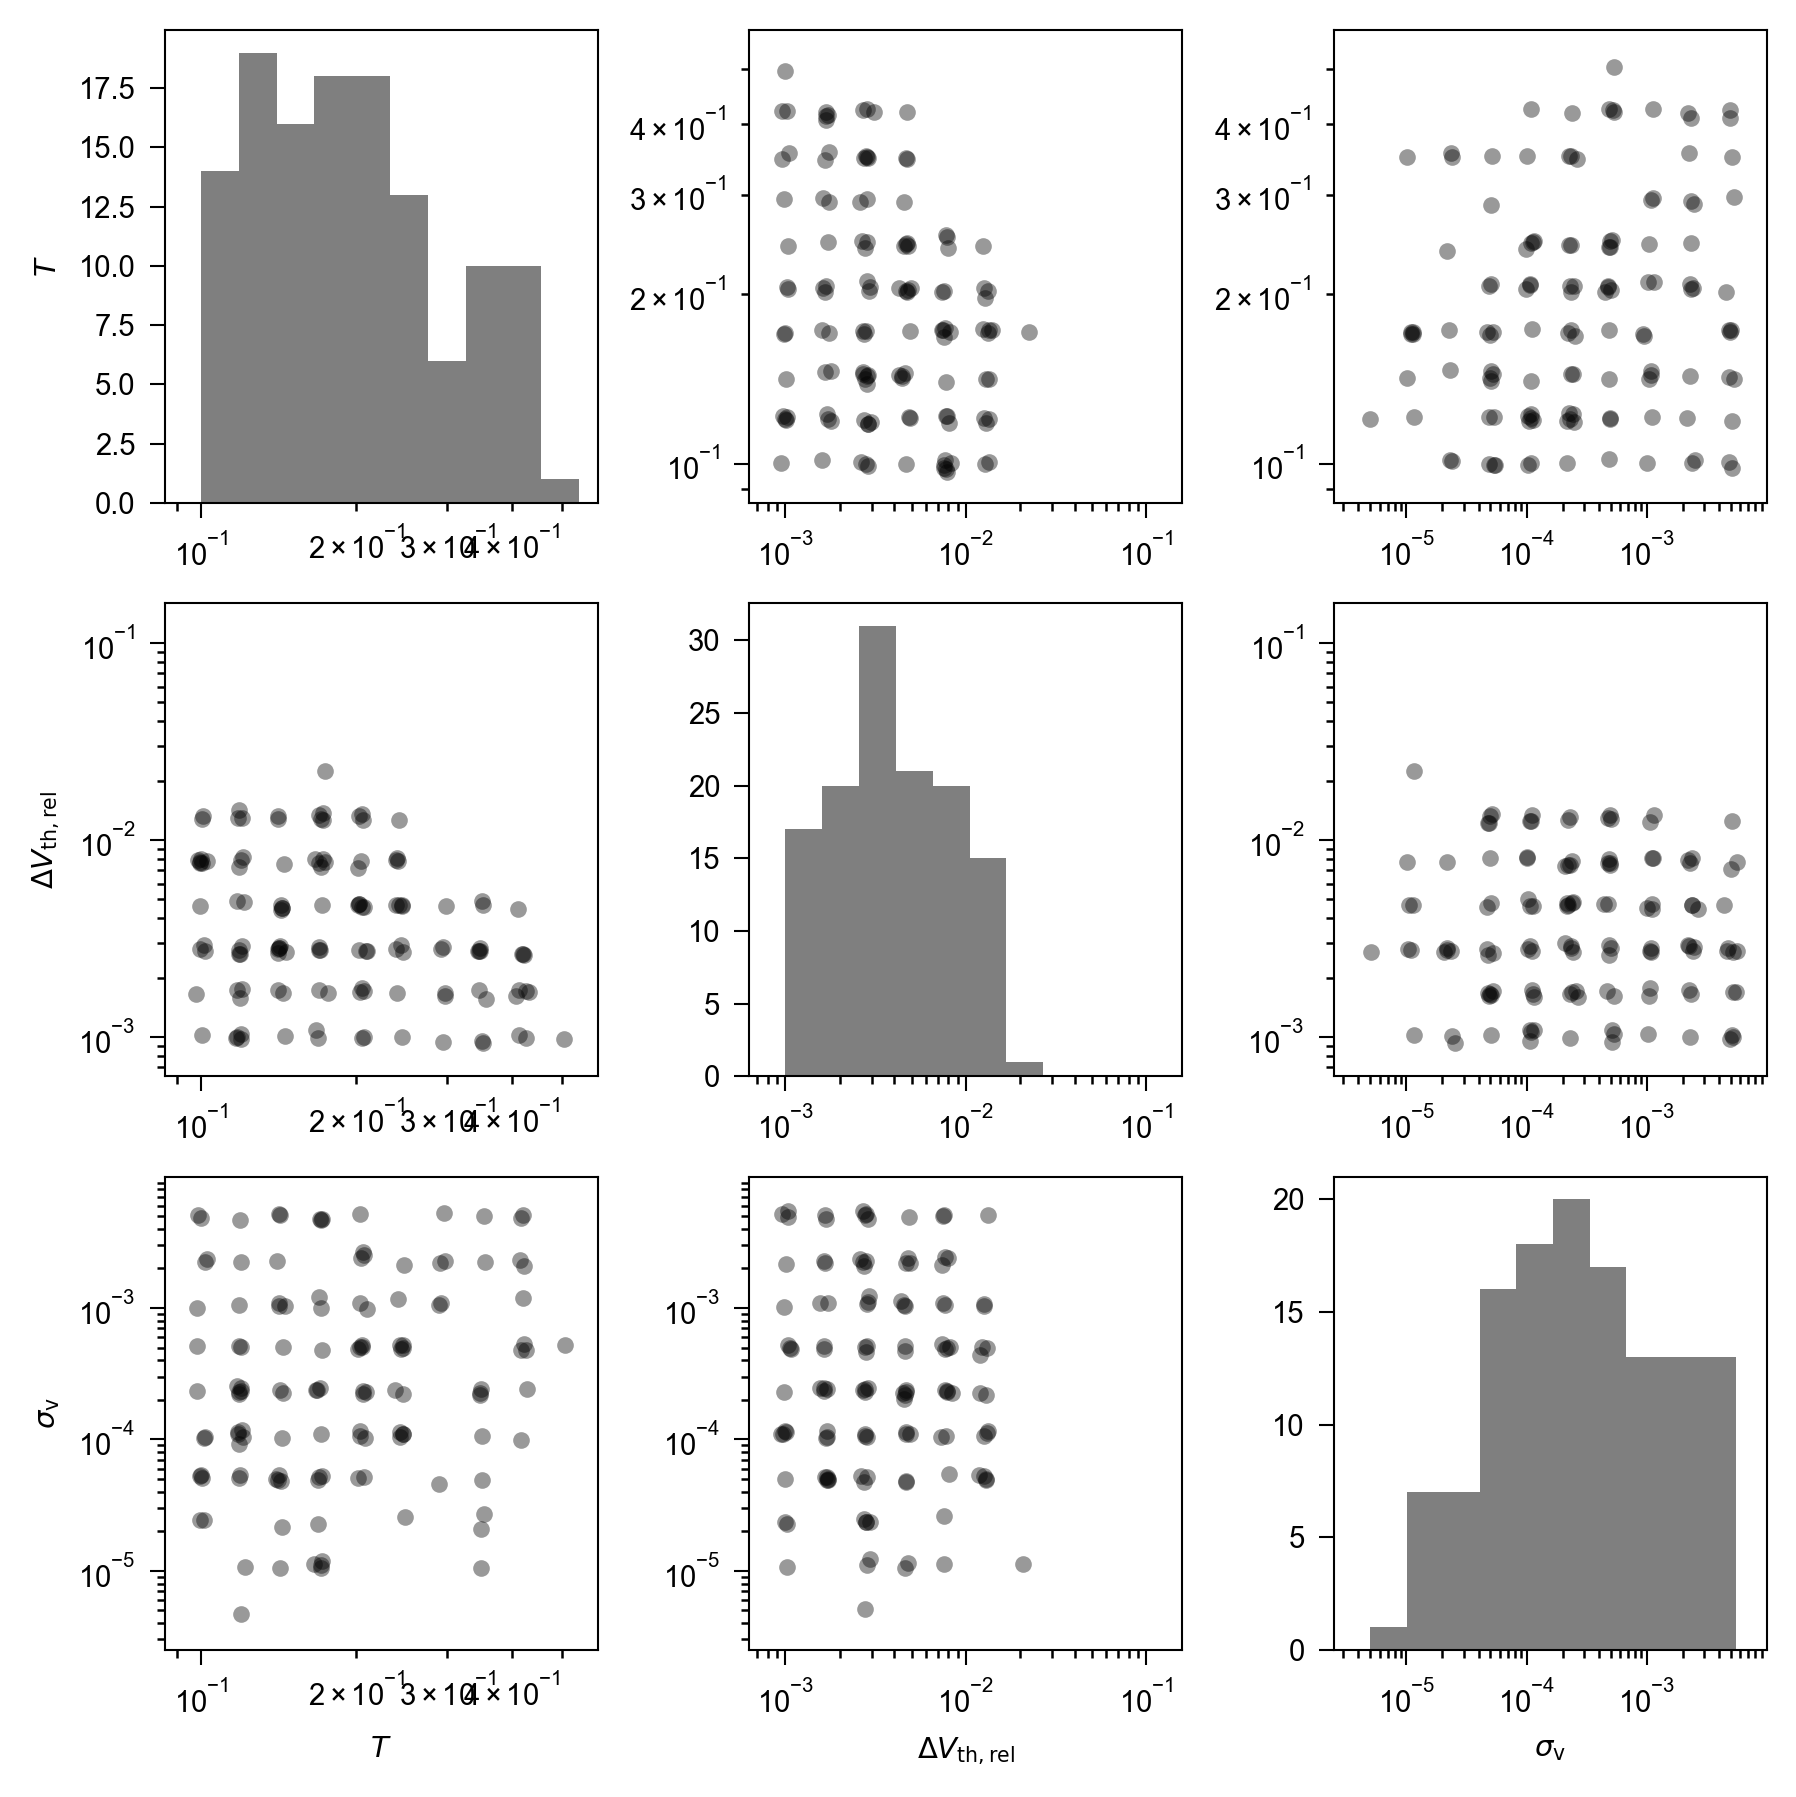
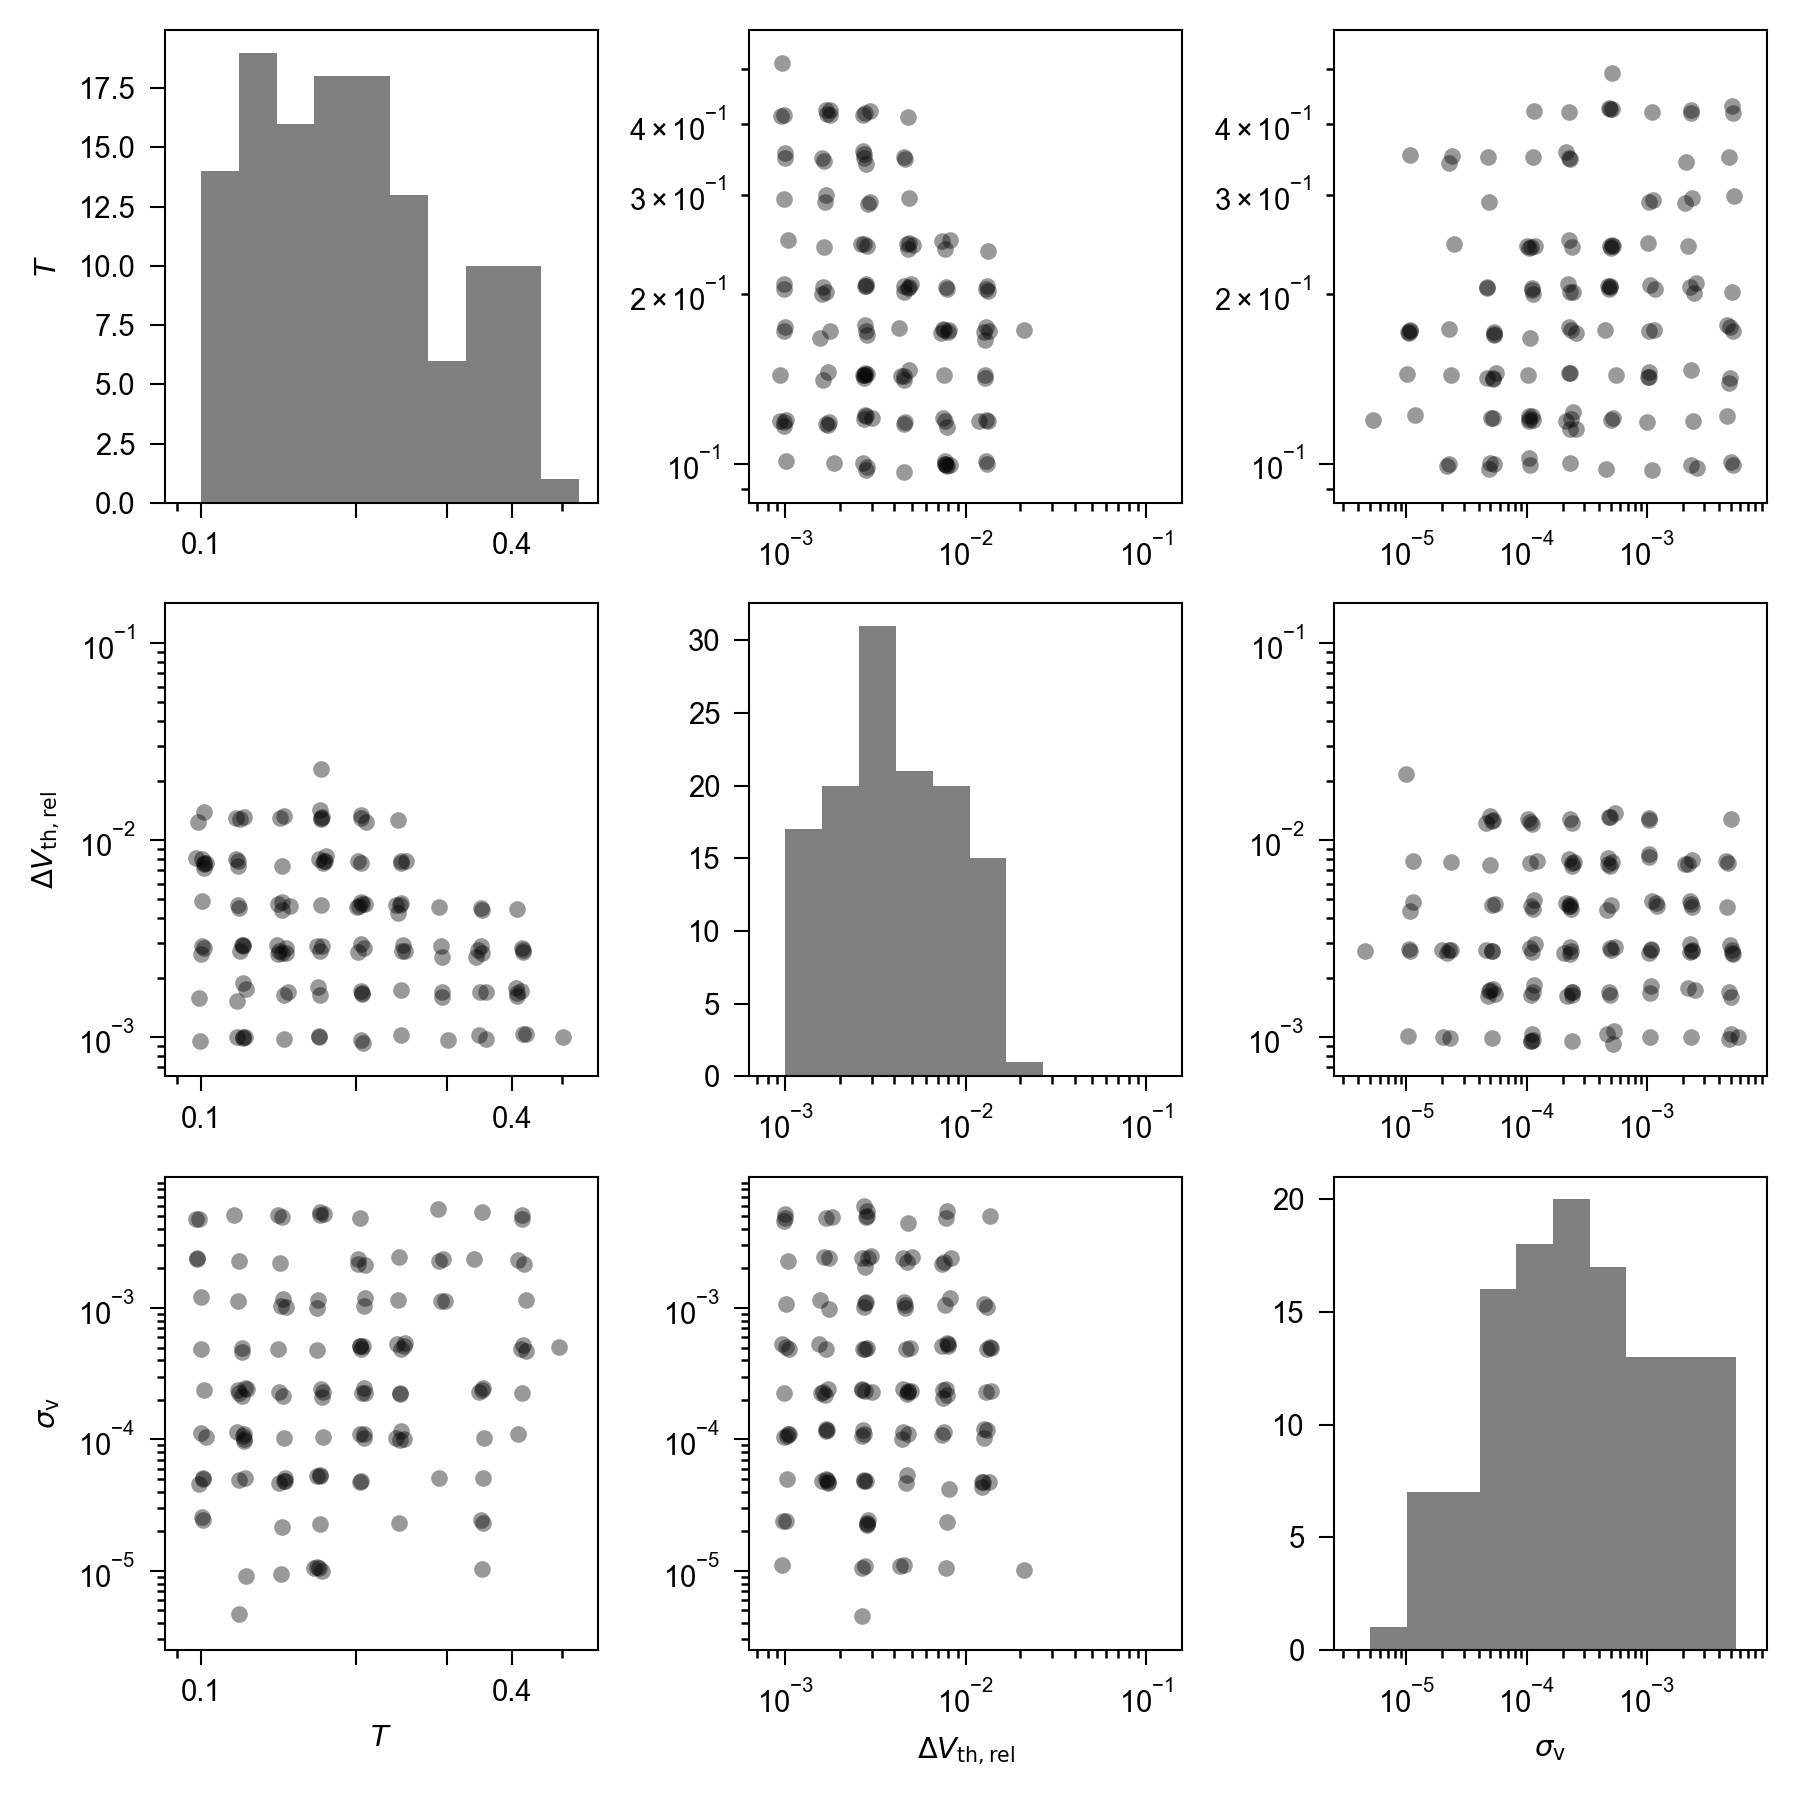
Fixing overlapping x tick labels in Figs S14-15

diff --git a/SCPaper/sc_fitting.py b/SCPaper/sc_fitting.py
@@ -1142,6 +1142,16 @@ def do_params_plot(param_names, params_array, param_ranges=None,
                     ymax = PARAM_VAL_FOR_INF
                 yplotmin, yplotmax = get_plot_lims(ymin, ymax)
                 ax.set_ylim(yplotmin, yplotmax)
+            if param_names[i_x_param] == 'T':
+                # fix for problem with overlapping x tick labels
+                xticks = np.arange(xmin, xmax, 0.1)
+                ax.set_xticks(xticks)
+                xticklabels = []
+                for i in range(len(xticks)):
+                    xticklabels.append('')
+                xticklabels[0] = f'{xticks[0]:.1f}'
+                xticklabels[-1] = f'{xticks[-1]:.1f}'
+                ax.set_xticklabels(xticklabels)
             if i_x_param == 0:
                 ax.set_ylabel(display_param_names[i_y_param])
             if i_y_param == n_params-1:

diff --git a/SCPaper/do_6_analyse_probabilistic_fits.py b/SCPaper/do_6_analyse_probabilistic_fits.py
@@ -34,7 +34,7 @@ DO_PLOTS = True # if False, all plots are disabled
 DO_TIME_SERIES_PLOTS = False
 N_CRIT_FOR_TS_PLOT = 4
 DO_PARAMS_PLOTS = False
-DO_RETAINED_PARAMS_PLOT = False # supplementary figure
+DO_RETAINED_PARAMS_PLOT = True # supplementary figure
 DO_CRIT_PLOT = True # supplementary figure
 CRIT_PLOT_MODELS = ('oVAoAN', 'oVAoEAoAN',
                      'oVAoSNc', 'oVAoEAoSNc', 'oVAoSNcoPF', 'oVAoEAoSNcoPF',
@@ -42,7 +42,7 @@ CRIT_PLOT_MODELS = ('oVAoAN', 'oVAoEAoAN',
 CRIT_PLOT_FIG_NO = 13
 DO_OUTCOME_PLOT = False
 N_CRIT_FOR_PARAMS_PLOT = 4
-SAVE_FIGS = False
+SAVE_FIGS = True
 RET_PARAMS_PLOTS_TO_SAVE = ('oVAoEAoSNv', 'oVAoEAoSNvoPF')
 RET_PARAMS_PLOT_FIRST_FIG_NO = 14
 MODELS_TO_ANALYSE = 'all'
